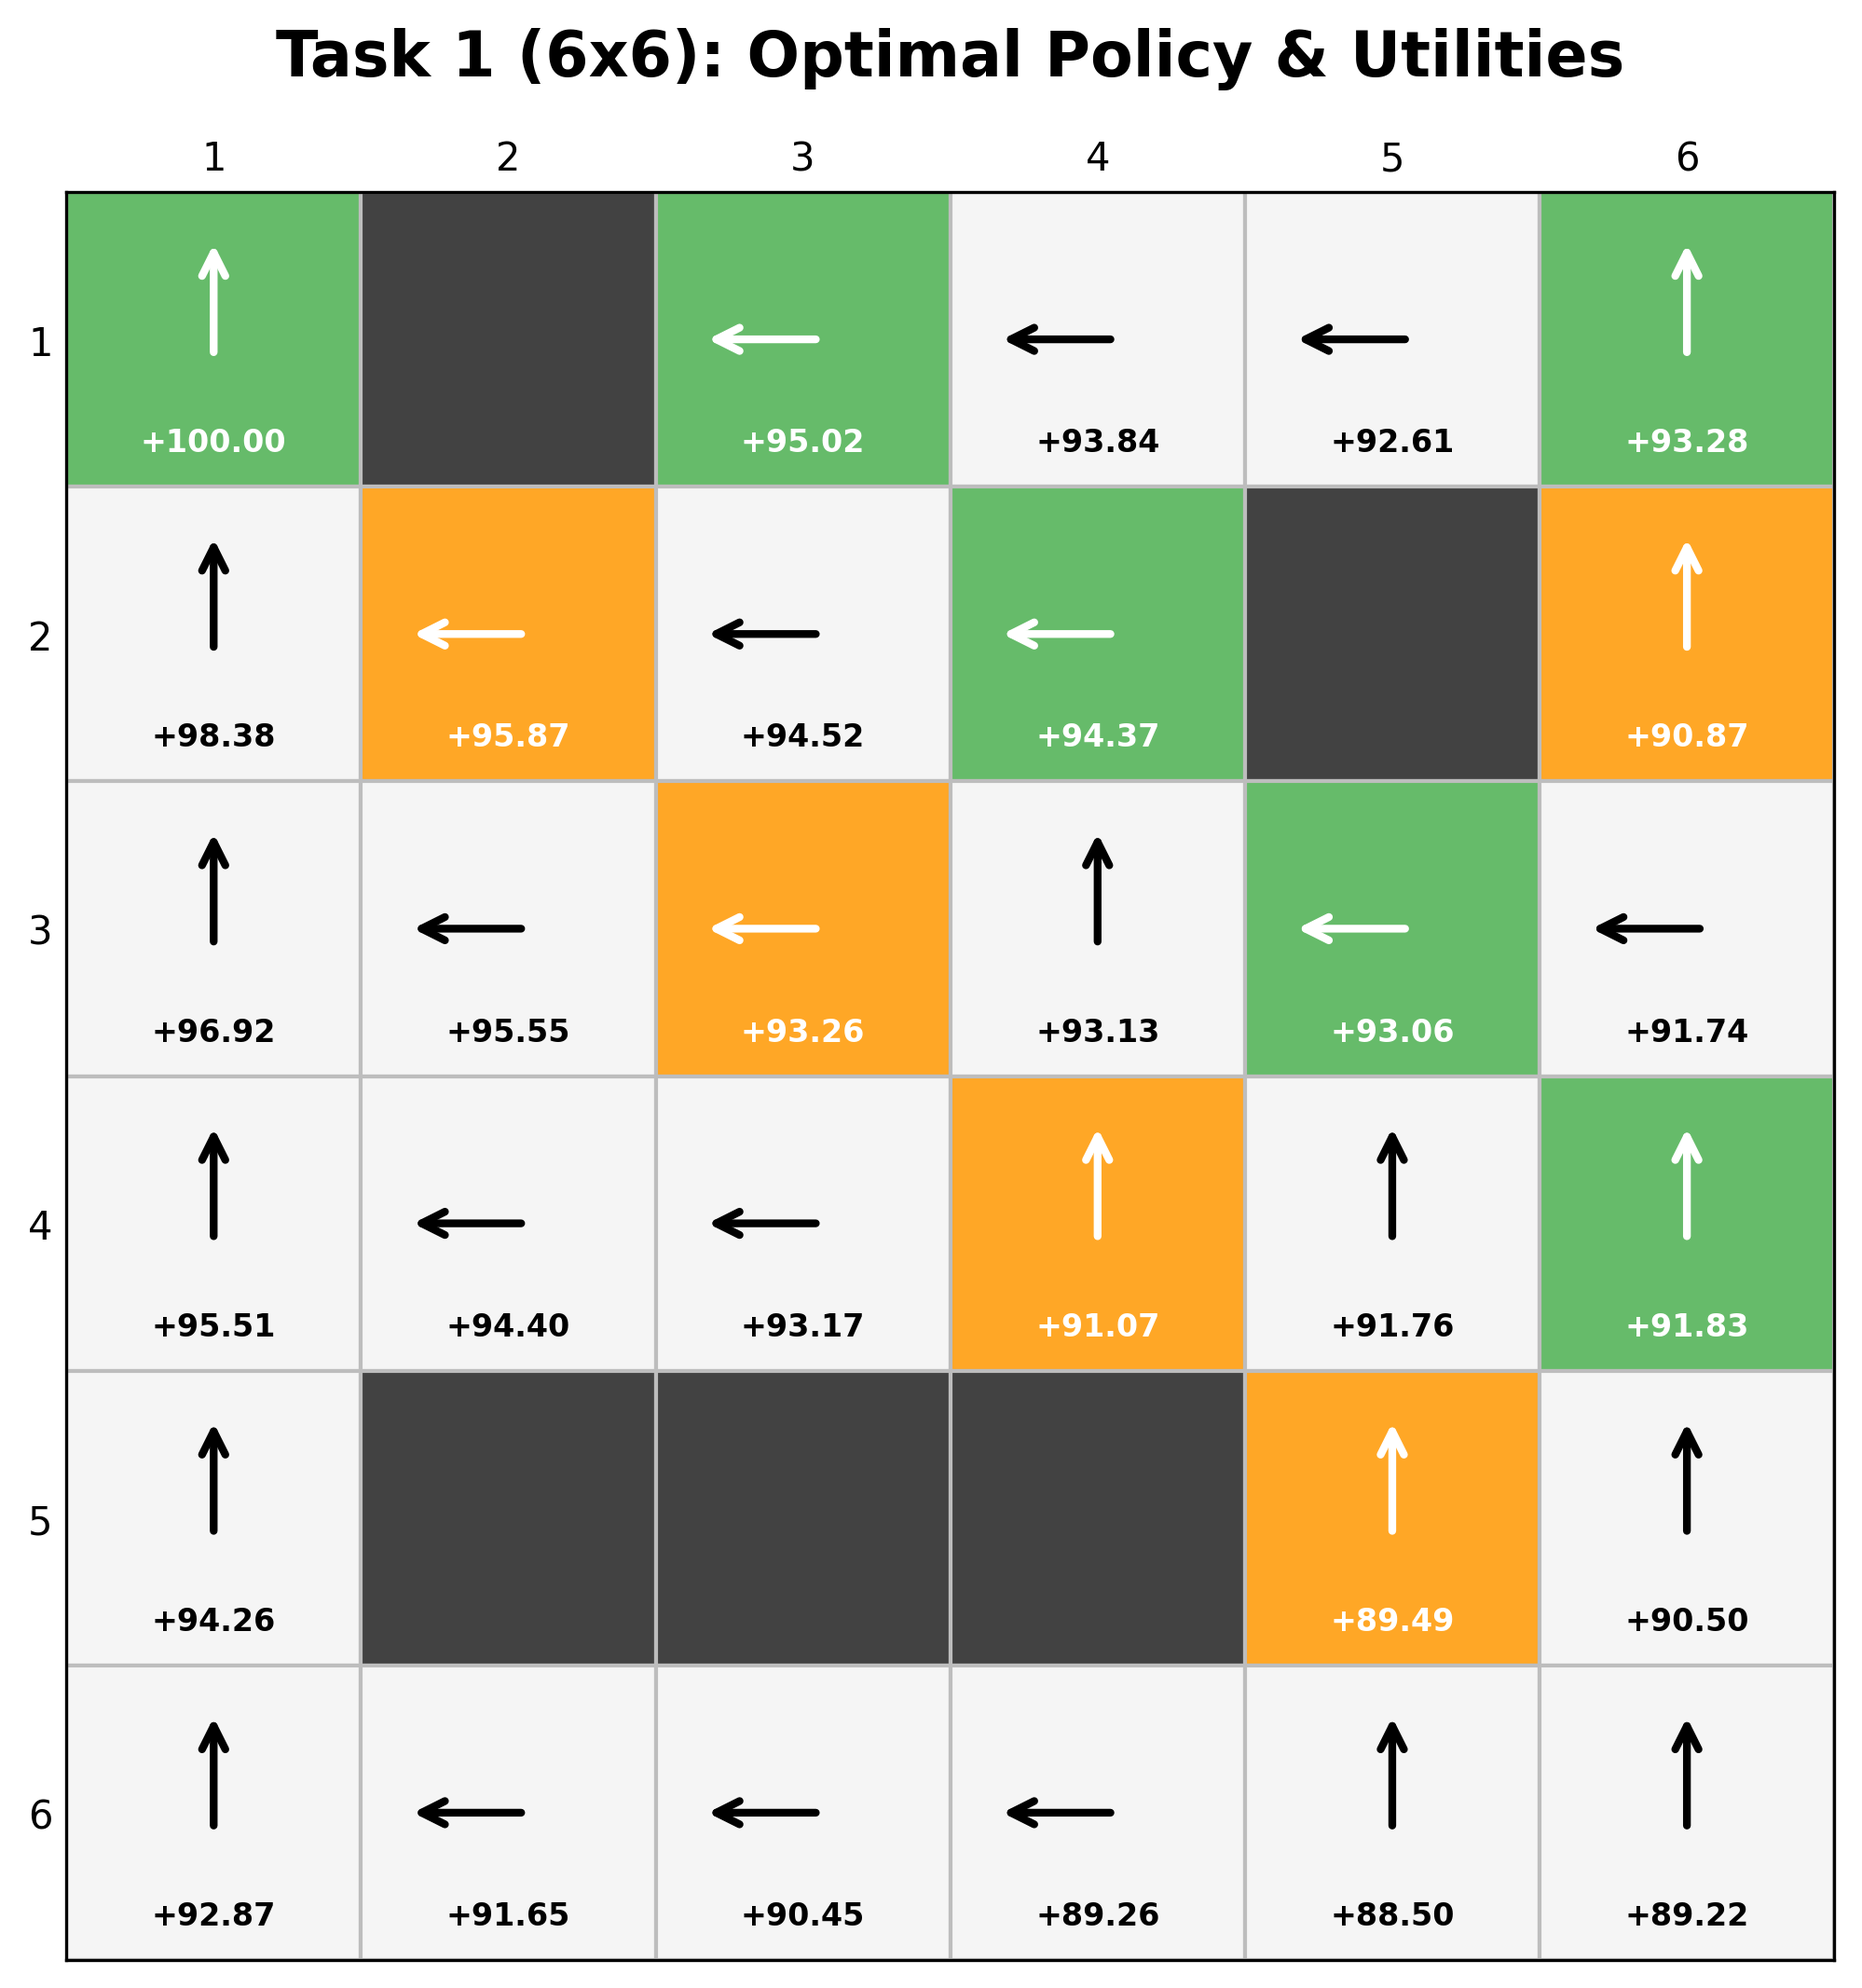
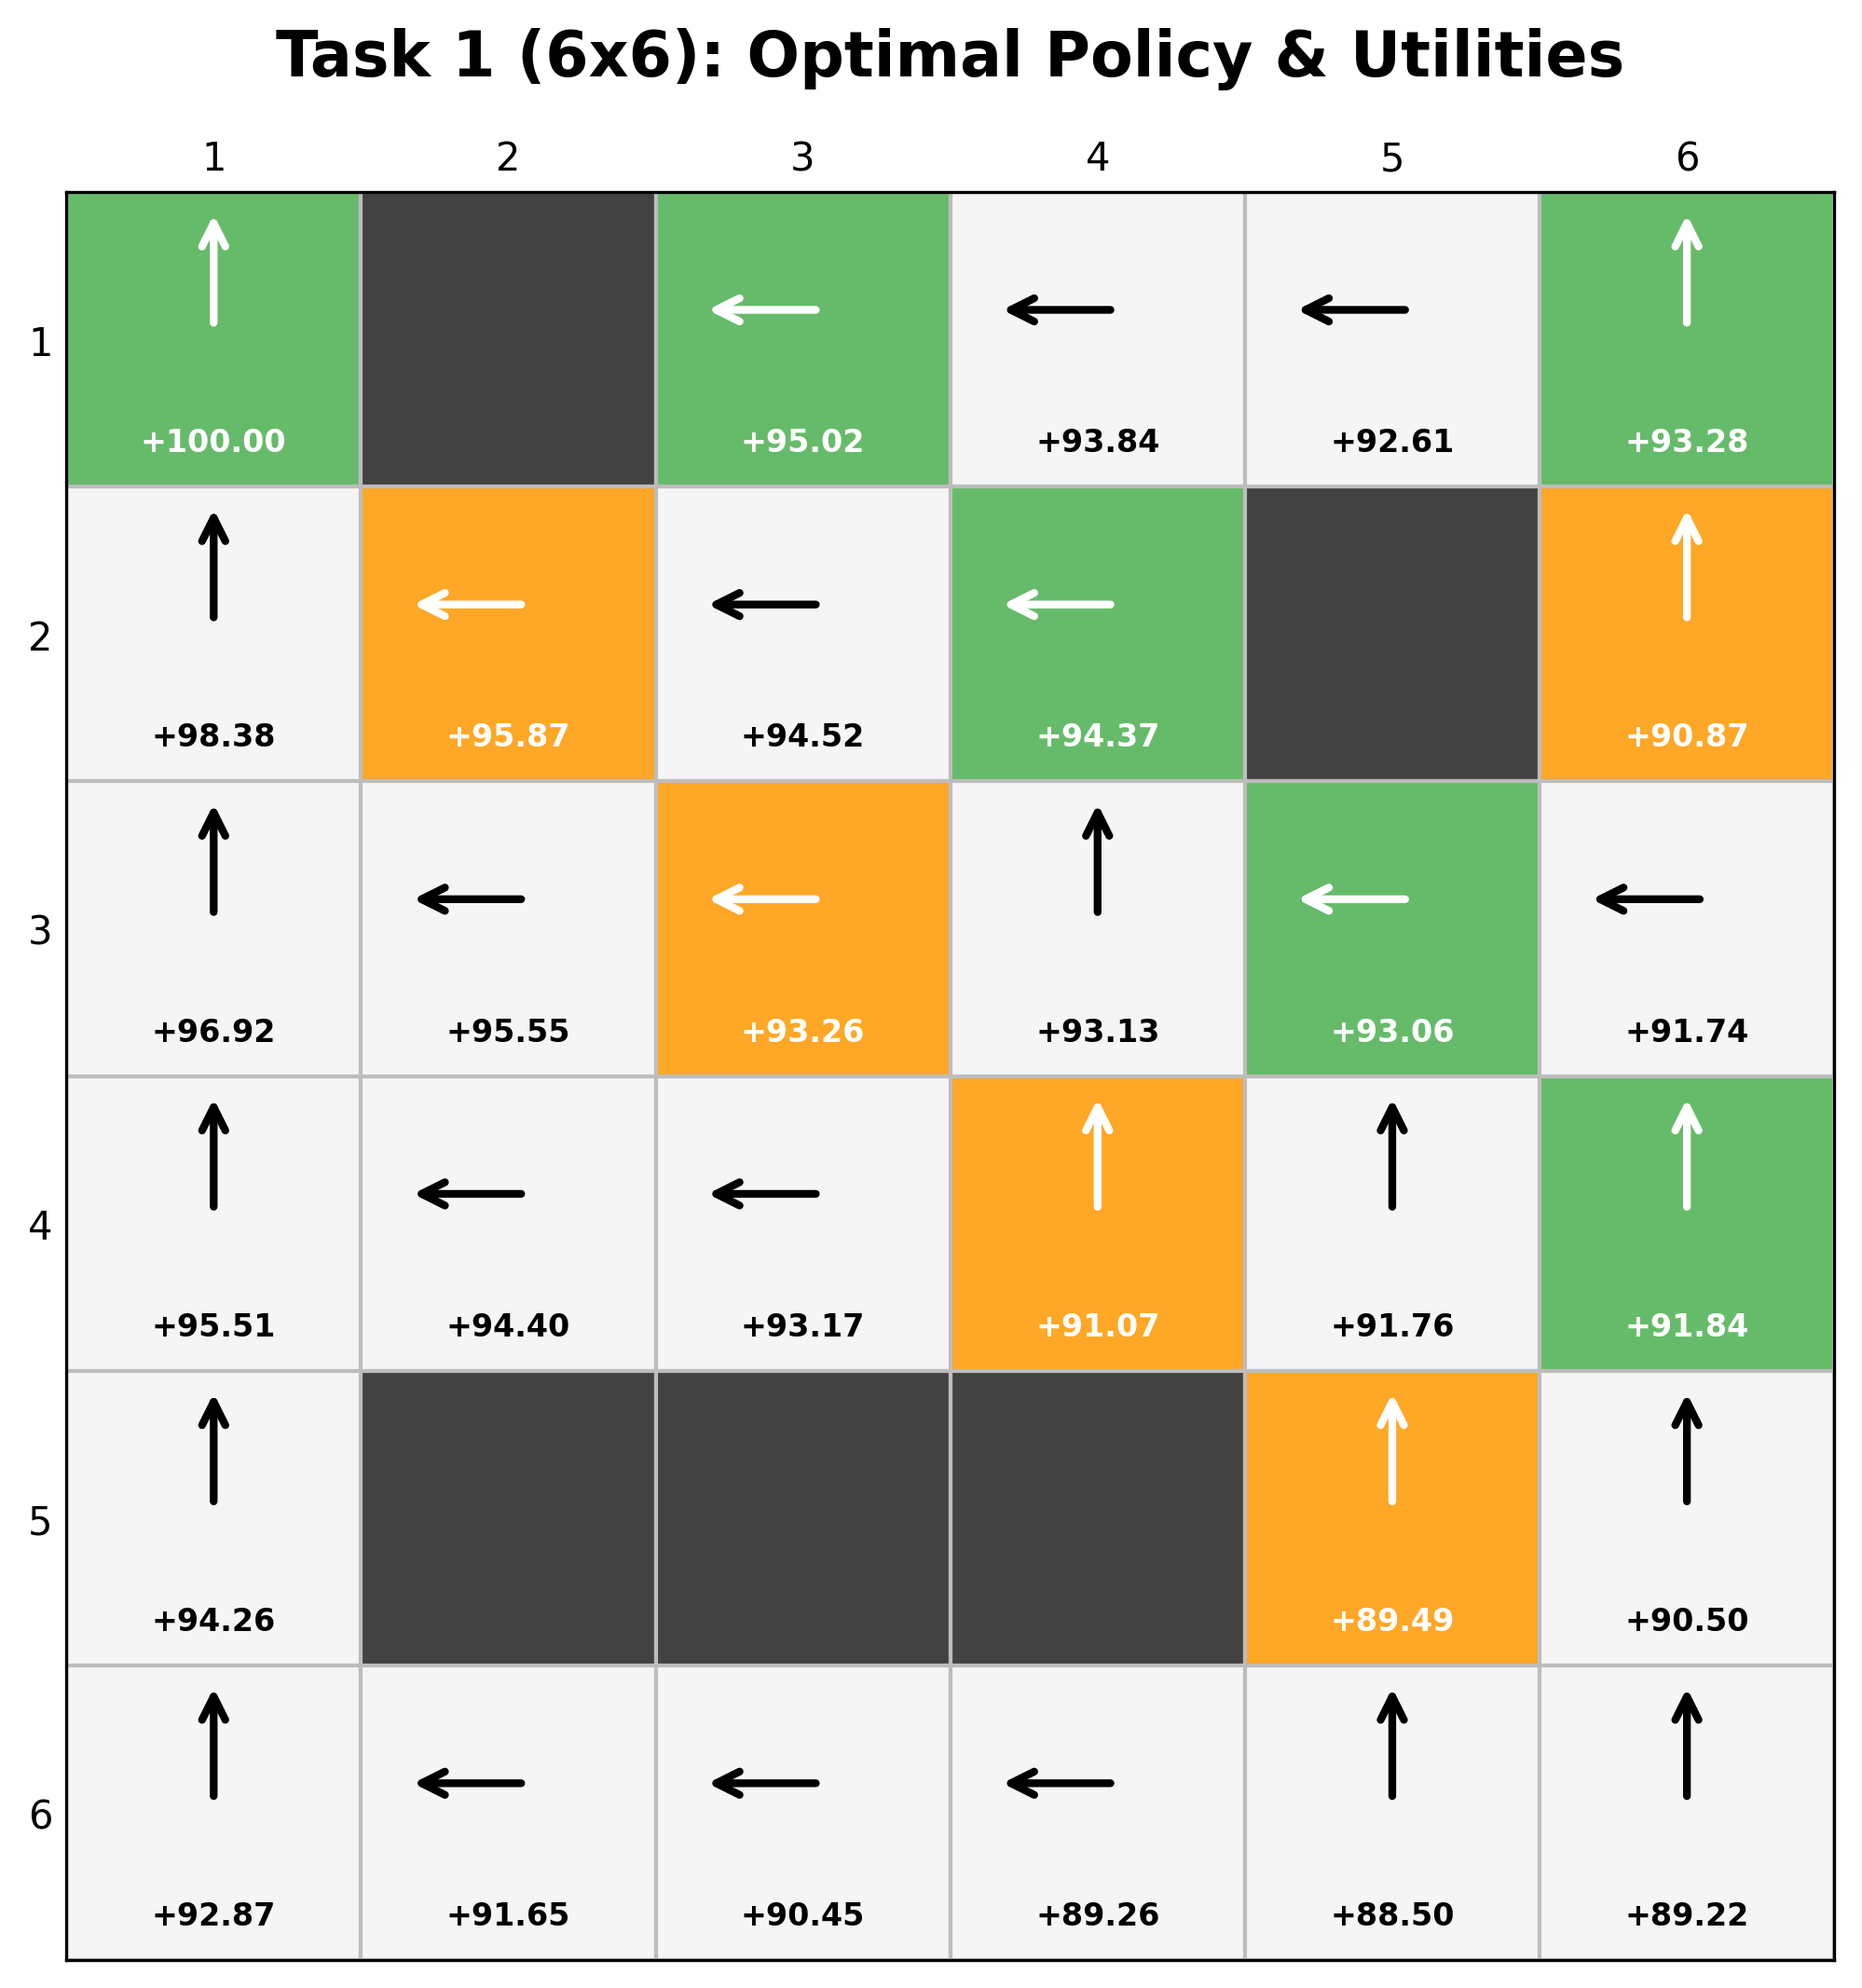
fully completed code

diff --git a/visualization.py b/visualization.py
@@ -7,10 +7,6 @@ OUTPUT_DIR = "output"
 os.makedirs(OUTPUT_DIR, exist_ok=True)
 
 def plot_utility_convergence(U_history, env, start_state, filename="utility_convergence.png"):
-    """
-    Plots the utility estimates of all states over the number of iterations.
-    Highlights the specific start_state for clarity.
-    """
     iterations = range(len(U_history))
     plt.figure(figsize=(10, 6))
     
@@ -47,10 +43,74 @@ def plot_utility_convergence(U_history, env, start_state, filename="utility_conv
     print(f"  -> Convergence plot saved to: {filepath}")
     plt.close()
 
+
+def plot_initial_grid(env, start_state, filename="initial_grid.png"):
+
+    fig, ax = plt.subplots(figsize=(env.width * 1.2, env.height * 1.2))
+    
+    # Invert y-axis so (1,1) is at the top-left
+    ax.set_ylim(env.height + 0.5, 0.5)
+    ax.set_xlim(0.5, env.width + 0.5)
+    
+    colors = {
+        'wall': '#424242',
+        'green': '#66BB6A',
+        'orange': '#FFA726',
+        'normal': '#F5F5F5'
+    }
+
+    for x in range(1, env.width + 1):
+        for y in range(1, env.height + 1):
+            state = (x, y)
+            
+            if state in env.walls:
+                bg_color = colors['wall']
+            elif env.rewards[state] > 0:
+                bg_color = colors['green']
+            elif env.rewards[state] < -0.05: 
+                bg_color = colors['orange']
+            else:
+                bg_color = colors['normal']
+
+            # Draw the cell
+            rect = mpatches.Rectangle((x - 0.5, y - 0.5), 1, 1, facecolor=bg_color, edgecolor='#BDBDBD', linewidth=1)
+            ax.add_patch(rect)
+
+            # Determine text color for contrast
+            text_color = 'white' if bg_color in [colors['wall'], colors['green'], colors['orange']] else 'black'
+            
+            if state in env.walls:
+                ax.text(x, y, "WALL", ha='center', va='center', fontsize=10, color=text_color, fontweight='bold')
+            else:
+                # Print explicit rewards
+                if env.rewards[state] > 0:
+                    ax.text(x, y, "+1", ha='center', va='center', fontsize=12, color=text_color, fontweight='bold')
+                elif env.rewards[state] < -0.05:
+                    ax.text(x, y, "-1", ha='center', va='center', fontsize=12, color=text_color, fontweight='bold')
+                
+                # Print Start label
+                if state == start_state:
+                    # If the start state happens to share a cell with a +1 or -1, shift "Start" down slightly so they don't overlap
+                    y_offset = 0.25 if (env.rewards[state] > 0 or env.rewards[state] < -0.05) else 0
+                    ax.text(x, y + y_offset, "Start", ha='center', va='center', fontsize=10, color=text_color, fontweight='bold')
+
+    ax.set_aspect('equal')
+    ax.set_xticks(range(1, env.width + 1))
+    ax.set_yticks(range(1, env.height + 1))
+    ax.xaxis.tick_top()
+    ax.tick_params(length=0) 
+    
+    plt.title(f"{env.name}: Initial Environment Layout", fontsize=16, fontweight='bold', pad=30)
+    plt.tight_layout()
+    
+    filepath = os.path.join(OUTPUT_DIR, filename)
+    plt.savefig(filepath, dpi=300, bbox_inches='tight')
+    print(f"  -> Initial layout grid saved to: {filepath}")
+    plt.close()
+
+
 def plot_policy_and_utilities(U, policy, env, filename="policy_grid.png"):
-    """
-    Generates a high-quality visual grid showing cell types, utilities, and policy arrows.
-    """
+
     fig, ax = plt.subplots(figsize=(env.width * 1.2, env.height * 1.2))
     
     # Invert y-axis so (1,1) is at the top-left
@@ -59,10 +119,10 @@ def plot_policy_and_utilities(U, policy, env, filename="policy_grid.png"):
     
     # Visual configuration
     colors = {
-        'wall': '#424242',     # Dark Gray
-        'green': '#66BB6A',    # Soft Green
-        'orange': '#FFA726',   # Soft Orange
-        'normal': '#F5F5F5'    # Off-White
+        'wall': '#424242',
+        'green': '#66BB6A',
+        'orange': '#FFA726',
+        'normal': '#F5F5F5'
     }
     
     # Arrow vectors
@@ -95,7 +155,7 @@ def plot_policy_and_utilities(U, policy, env, filename="policy_grid.png"):
             if state not in env.walls:
                 text_color = 'white' if bg_color in [colors['green'], colors['orange']] else 'black'
                 
-                # Draw utility value
+                # Draw utility value at the bottom
                 ax.text(x, y + 0.35, f"{U[state]:+.2f}", ha='center', va='center', fontsize=8, color=text_color, fontweight='bold')
                 
                 # Draw policy arrow
@@ -106,12 +166,15 @@ def plot_policy_and_utilities(U, policy, env, filename="policy_grid.png"):
                     full_action = char_map[policy_action_char]
                     dx, dy = arrow_map[full_action]
                     
+                    # SHIFT FIX: Move the center of the arrow up slightly (y - 0.1) 
+                    # so downward arrows don't crash into the utility numbers.
+                    cy = y - 0.1
+                    
                     ax.annotate('', 
-                                xy=(x + dx, y + dy), 
-                                xytext=(x - dx*0.2, y - dy*0.2), 
+                                xy=(x + dx, cy + dy), 
+                                xytext=(x - dx*0.2, cy - dy*0.2), 
                                 arrowprops=dict(arrowstyle="->", color=text_color, lw=2, mutation_scale=15))
 
-    # Clean up axes
     ax.set_aspect('equal')
     ax.set_xticks(range(1, env.width + 1))
     ax.set_yticks(range(1, env.height + 1))

diff --git a/policy.py b/policy.py
@@ -1,14 +1,8 @@
 from transition import get_transitions
 
-# ==========================================
-# 1. VALUE ITERATION
-# ==========================================
 
-def value_iteration(env, epsilon=1e-4):
-    """
-    Executes the Value Iteration algorithm.
-    Returns the final utilities and the utility history for plotting.
-    """
+# 1. VALUE ITERATION
+def value_iteration(env, epsilon=1e-6):
     # Initialize U as a dictionary for 1-based indexing
     U = { (x, y): 0.0 for x in range(1, env.width + 1) for y in range(1, env.height + 1) }
     U_history = []
@@ -22,7 +16,7 @@ def value_iteration(env, epsilon=1e-4):
             for y in range(1, env.height + 1):
                 state = (x, y)
                 
-                # Skip walls as they have no utility and cannot be entered
+                # Skip walls
                 if state in env.walls:
                     continue
                 
@@ -51,9 +45,7 @@ def value_iteration(env, epsilon=1e-4):
     return U, U_history
 
 def get_optimal_policy(U, env):
-    """
-    Extracts the optimal policy given a computed utility matrix.
-    """
+
     policy = { (x, y): ' ' for x in range(1, env.width + 1) for y in range(1, env.height + 1) }
     
     for x in range(1, env.width + 1):
@@ -81,14 +73,10 @@ def get_optimal_policy(U, env):
     return policy
 
 
-# ==========================================
-# 2. POLICY ITERATION
-# ==========================================
 
-def policy_evaluation(policy, U, env, epsilon=1e-4):
-    """
-    Calculates the utilities of a given policy iteratively.
-    """
+# 2. POLICY ITERATION
+def policy_evaluation(policy, U, env, epsilon=1e-6):
+
     U_eval = U.copy()
     
     while True:
@@ -118,15 +106,12 @@ def policy_evaluation(policy, U, env, epsilon=1e-4):
             
     return U_eval
 
-def policy_iteration(env):
-    """
-    Executes the Policy Iteration algorithm.
-    Returns the final utilities, the optimal policy, and the utility history for plotting.
-    """
+def policy_iteration(env):                                                                                                  
+
     # 1. Initialization
     U = { (x, y): 0.0 for x in range(1, env.width + 1) for y in range(1, env.height + 1) }
     
-    # Start with an arbitrary policy (e.g., everyone goes 'up')
+    # Start with an arbitrary policy (e.g., all 'up' arrows) and mark walls with 'W'
     policy = { (x, y): 'up' for x in range(1, env.width + 1) for y in range(1, env.height + 1) }
     for w in env.walls:
         policy[w] = 'W'
@@ -162,7 +147,7 @@ def policy_iteration(env):
                     for prob, next_state in get_transitions(state, action, env):
                         expected_u += prob * U[next_state]
                         
-                    # Add a tiny epsilon (1e-8) to prevent infinite loops from floating point precision limits
+                    # Add a tiny epsilon (1e-8) to prevent infinite loops
                     if expected_u > max_u + 1e-8: 
                         max_u = expected_u
                         best_action = action

diff --git a/main.py b/main.py
@@ -1,15 +1,17 @@
 from environment import get_maze
 from policy import value_iteration, get_optimal_policy, policy_iteration
-from visualization import plot_utility_convergence, plot_policy_and_utilities
+from visualization import plot_utility_convergence, plot_policy_and_utilities, plot_initial_grid
 
 def run_experiment(task_name, start_state):
     print(f"\n{'='*50}")
     print(f" EXECUTING: {task_name.upper()}")
     print(f"{'='*50}")
-    
+
     # 1. Instantiate the specific environment
     env = get_maze(task_name)
-    
+
+    plot_initial_grid(env, start_state, filename=f"{task_name}_initial_layout.png")
+
     # 2. Run Value Iteration
     print(f"\n[Value Iteration] - Solving {env.width}x{env.height} grid...")
     U_vi, U_hist_vi = value_iteration(env)
@@ -22,18 +24,36 @@ def run_experiment(task_name, start_state):
     # 3. Run Policy Iteration
     print(f"\n[Policy Iteration] - Solving {env.width}x{env.height} grid...")
     U_pi, policy_pi, U_hist_pi = policy_iteration(env)
+
+    print_utilities_for_table(U_pi, env, f"{task_name.upper()} - Final Utilities after Policy Iteration")
     
     print(f"  -> Converged in {len(U_hist_pi)-1} iterations.")
     plot_utility_convergence(U_hist_pi, env, start_state, filename=f"{task_name}_PI_convergence.png")
     plot_policy_and_utilities(U_pi, policy_pi, env, filename=f"{task_name}_PI_grid.png")
 
+def print_utilities_for_table(U, env, title):
+
+    print(f"\n{title}")
+    print("State\tUtility")
+    
+    # We loop y first, then x, so the list reads left-to-right, top-to-bottom
+    for y in range(1, env.height + 1):
+        for x in range(1, env.width + 1):
+            state = (x, y)
+            if state in env.walls:
+                print(f"({x}, {y})\tWALL")
+            else:
+                # Formats to 4 decimal places for precision in your report
+                print(f"({x}, {y})\t{U[state]:.4f}") 
+    print("-" * 20)
+
 if __name__ == "__main__":
     print("Initializing Intelligent Agents MDP Engine...")
     
-    # Run Task 1 (Start state matches the assignment PDF)
+    # Run Task 1
     run_experiment('task1', start_state=(3, 4))
     
-    # Run Task 2 (Using your custom bottom-left start state)
+    # Run Task 2 (let start state be at bottom-left corner)
     run_experiment('task2', start_state=(1, 12))
     
     print("\nAll tasks complete! Check the 'output' folder for your report images.")

diff --git a/environment.py b/environment.py
@@ -17,8 +17,8 @@ class MazeEnv:
         for state in orange: rewards[state] = -1.0
         return rewards
 
+# Factory function to build maze environments based on task name
 def get_maze(task_name):
-    """Factory function to build and return the requested maze."""
     if task_name == 'task1':
         return MazeEnv(
             name="Task 1 (6x6)",
